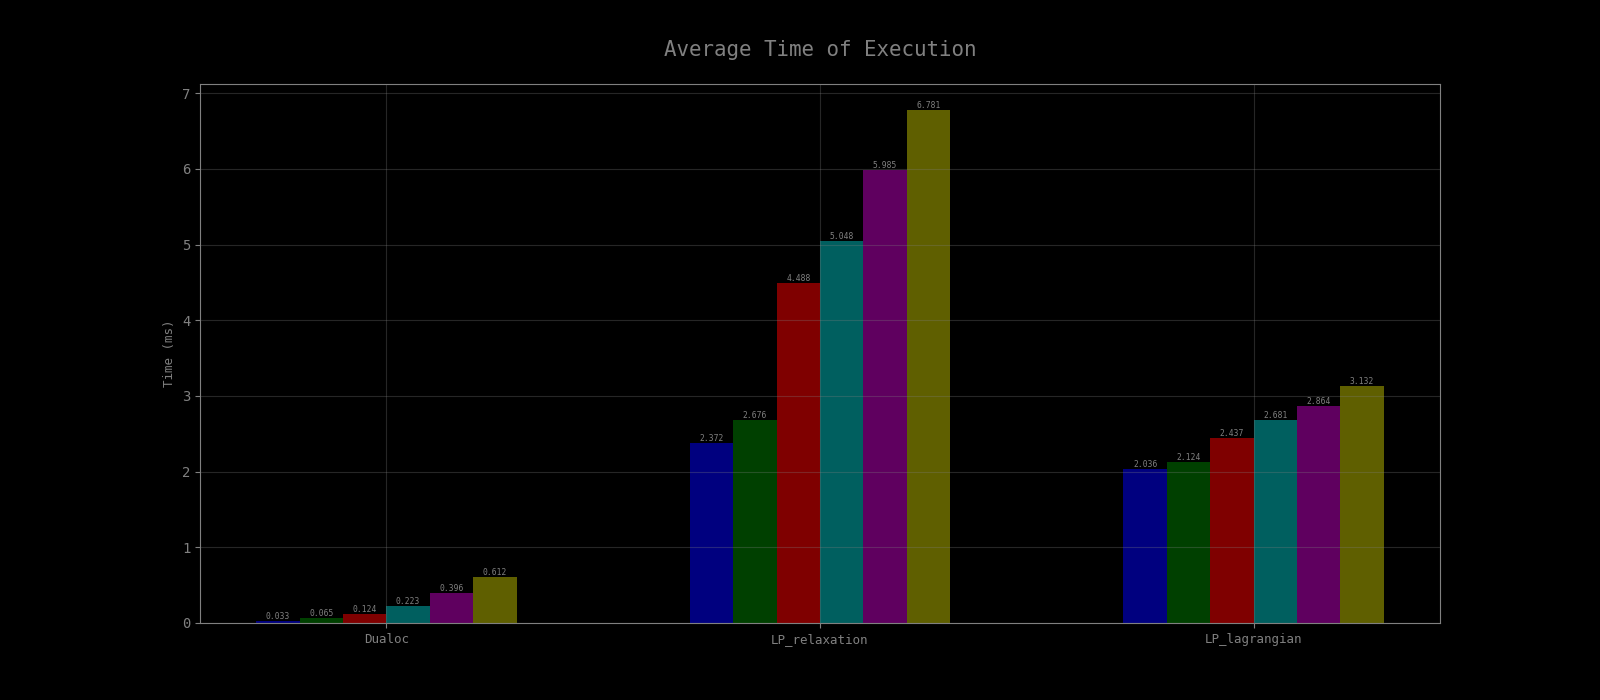
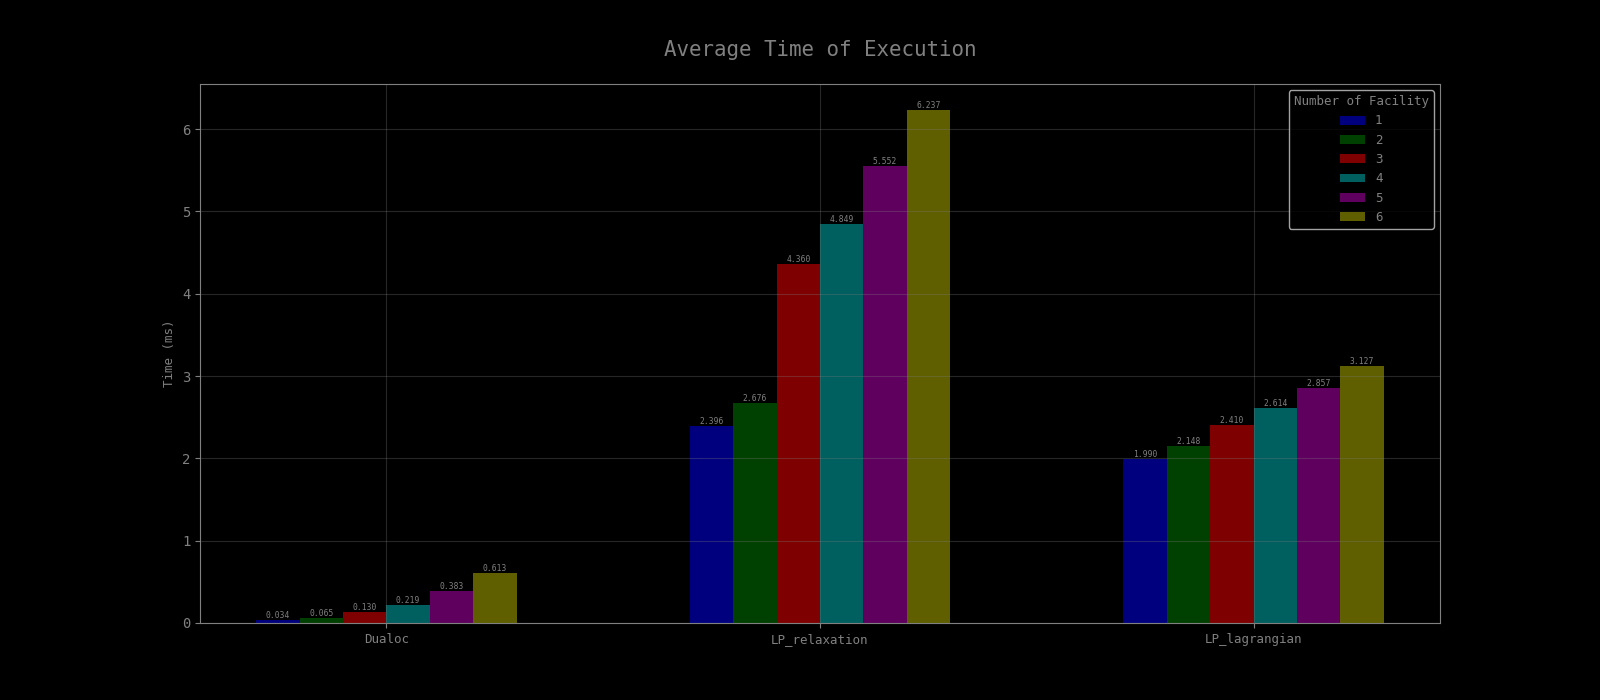
subgradient algo completed

diff --git a/dualoc/performance/chart.py b/dualoc/performance/chart.py
@@ -2,6 +2,8 @@ import numpy as np
 import matplotlib.pyplot as plt
 from performance.helpers import *
 
+COLOR = ['b', 'g', 'r', 'c', 'm', 'y']
+
 
 class Chart:
     def __init__(self):
@@ -13,82 +15,89 @@ class Chart:
                         'font.family': 'monospace', 'figure.facecolor': 'black',
                         'figure.edgecolor': 'black', 'xtick.color': 'grey',
                         'ytick.color': 'grey'}
+        self.ind = np.arange(3)  # the x locations for the groups
+        self.width = 0.10       # the width of the bars
 
-
-    def autolabel(self, rects):
+    def autolabel(self, rects, ax):
         for rect in rects:
             h = rect.get_height()
-            self.ax.text(rect.get_x()+rect.get_width()/2., h, "%.3f" % h,
+            ax.text(rect.get_x()+rect.get_width()/2., h, "%.3f" % h,
                     ha='center', va='bottom', rotation=0, fontsize='xx-small', color=self.color)
 
-    def error_chart(self, path): 
+    def set_chart(self, plt):
+        fig = plt.figure(figsize=(16, 7))
+        plt.grid(alpha=.3, color=self.color)
+        ax = fig.add_subplot(111)
+        ax.set_xticklabels(
+            ('Dualoc', 'LP_relaxation', 'LP_lagrangian'), fontsize=self.axes_fontsize)
+        return ax
+
+    def set_legend(self, ax, plt, rect, trial):
+        l = len(trial)
+        a = tuple((rect[i],) for i in range(0, l))
+        n = tuple((trial[i]) for i in range(0, l))
+
+        legend = ax.legend(a, n, title='Number of Facility/Customer', markerscale=0.4,
+                           fontsize=self.axes_fontsize, labelcolor=self.color)
+        plt.setp(legend.get_title(), color=self.color,
+                 fontsize=self.axes_fontsize)
+
+    def error_chart(self, path):
 
         value, trial = create_list(path, 'error')
-        
-        COLOR = ['b', 'g', 'r', 'c', 'm', 'y']
-        N = 3
-        ind = np.arange(N)  # the x locations for the groups
-        width = 0.10       # the width of the bars
         l = len(trial)
-        
-        with plt.rc_context(self.context):
 
-            fig = plt.figure(figsize=(16,7))
-            self.ax = fig.add_subplot(111)
+        plt_instance = plt
+
+        with plt_instance.rc_context(self.context):
+
+            ax = self.set_chart(plt_instance)
 
             rect = [[] for _ in range(0, l)]
-            
+
             for i in range(0, l):
-                rect[i] = self.ax.bar(ind + (i * width), value[i], width, alpha=.5, color=COLOR[i])
-                self.autolabel(rect[i])
+                rect[i] = ax.bar(
+                    self.ind + (i * self.width), value[i], self.width, alpha=.5, color=COLOR[i])
+                self.autolabel(rect[i], ax)
 
-            plt.grid(alpha=.3, color=self.color)
-            plt.title("Percentage Error w.r.t. Primal Simplex Solution", color=self.color, pad=self.text_pad, fontsize=self.title_fontsize)
-            
-            # a = tuple((rect[i],) for i in range(0, l))
-            # n = tuple((trial[i]) for i in range(0, l))
-            
-            # legend = self.ax.legend(a, n, title='Number of Facility', markerscale=0.1, fontsize=self.axes_fontsize, labelcolor=self.color)
-            # plt.setp(legend.get_title(), color=self.color, fontsize=self.axes_fontsize)
-            plt.ylabel('Percentage Error (%)', fontsize=self.axes_fontsize, color=self.color)
+            plt_instance.title("Percentage Error w.r.t. Primal Simplex Solution",
+                               color=self.color, pad=self.text_pad, fontsize=self.title_fontsize)
 
-            self.ax.set_xticks(ind+((l-1)/2)*width)
-            self.ax.set_xticklabels( ('Dualoc', 'LP_relaxation', 'LP_lagrangian'), fontsize=self.axes_fontsize)
-            plt.savefig('./performance/result/result_error.png')
-            plt.show()
+            self.set_legend(ax, plt_instance, rect, trial)
 
-    def time_chart(self, path): 
+            plt_instance.ylabel('Percentage Error (%)',
+                                fontsize=self.axes_fontsize, color=self.color)
+
+            ax.set_xticks(self.ind+((l-1)/2)*self.width)
+            plt_instance.savefig('./performance/result/result_error.png')
+            plt_instance.show()
+
+    def time_chart(self, path):
 
         value, trial = create_list(path, 'time')
-
-        COLOR = ['b', 'g', 'r', 'c', 'm', 'y']
-        N = 3
-        ind = np.arange(N)  # the x locations for the groups
-        width = 0.10       # the width of the bars
         l = len(trial)
-        
-        with plt.rc_context(self.context):
 
-            fig = plt.figure(figsize=(16,7))
-            self.ax = fig.add_subplot(111)
+        plt_instance = plt
+
+        with plt_instance.rc_context(self.context):
+
+            ax = self.set_chart(plt_instance)
 
             rect = [[] for _ in range(0, l)]
-            
+
             for i in range(0, l):
-                rect[i] = self.ax.bar(ind + (i * width), value[i], width, alpha=.5, color=COLOR[i])
-                self.autolabel(rect[i])
+                rect[i] = ax.bar(
+                    self.ind + (i * self.width), value[i], self.width, alpha=.5, color=COLOR[i])
+                self.autolabel(rect[i], ax)
 
-            plt.grid(alpha=.3, color=self.color)
-            plt.title("Average Time of Execution", color=self.color, pad=self.text_pad, fontsize=self.title_fontsize)
-            
-            # a = tuple((rect[i],) for i in range(0, l))
-            # n = tuple((trial[i]) for i in range(0, l))
-            
-            # legend = self.ax.legend(a, n, title='Number of Facility', markerscale=0.1, fontsize=self.axes_fontsize, labelcolor=self.color)
-            # plt.setp(legend.get_title(), color=self.color, fontsize=self.axes_fontsize)
-            plt.ylabel('Time (ms)', fontsize=self.axes_fontsize, color=self.color)
+            plt_instance.title("Average Time of Execution", color=self.color,
+                               pad=self.text_pad, fontsize=self.title_fontsize)
 
-            self.ax.set_xticks(ind+((l-1)/2)*width)
-            self.ax.set_xticklabels( ('Dualoc', 'LP_relaxation', 'LP_lagrangian'), fontsize=self.axes_fontsize)
-            plt.savefig('./performance/result/result_time.png')
-            plt.show()
+            self.set_legend(ax, plt_instance, rect, trial)
+
+            plt_instance.ylabel('Time (ms)', fontsize=self.axes_fontsize,
+                                color=self.color)
+
+            ax.set_xticks(self.ind+((l-1)/2)*self.width)
+            plt_instance.savefig('./performance/result/result_time.png')
+            plt_instance.show()

diff --git a/dualoc/guroby/guroby.py b/dualoc/guroby/guroby.py
@@ -1,5 +1,6 @@
 from itertools import product
 from guroby.helpers import *
+from guroby.subgradient import *
 import guroby.constants as const
 import gurobipy as gp
 from gurobipy import GRB
@@ -46,7 +47,17 @@ class Guroby:
         self.m.setObjective(obj_func, GRB.MINIMIZE)
         # self.m.write('f.lp')
         self.m.optimize()
-        return self.m.PoolObjVal
+
+        nSolutions = self.m.SolCount
+        #print(nSolutions)
+        #for e in range(nSolutions):
+        self.m.setParam(GRB.Param.SolutionNumber, nSolutions - 1)
+        print("############")
+        print(self.m.PoolObjVal)
+        print(self.m.objVal)
+        print("############")
+
+        return self.m.objVal
 
     def simplex(self):
         self.m.addConstrs((self.assign[(c, f)] <= self.select[f]
@@ -57,14 +68,19 @@ class Guroby:
 
         return self.solve(f)
 
-    def lp_lagrangian(self, multiplier):
+    def lp_lagrangian(self, multiplier, k, lb, B):
+
+        if (k == 0):
+            return lb
+
+        #print(lb)
 
         coef_1 = []
         coef_2 = {}
         lambda_sum = 0
         for f in range(self.num_facilities):
-            for k, v in multiplier.items():
-                if k[1] == f:
+            for key, v in multiplier.items():
+                if key[1] == f:
                     lambda_sum += v
 
             coef_1.append(self.setup_cost[f] - lambda_sum)
@@ -76,8 +92,16 @@ class Guroby:
                 coef_2[(f, c)] = c_uv + lambda_uv
 
         f = self.select.prod(coef_1)+self.assign.prod(coef_2)
+        lb = self.solve(f)
 
-        return self.solve(f)
+        new_multiplier = subgradient(lb, multiplier, len(
+            self.cartesian_prod), self.num_facilities, self.num_customers, B, self.m)
+        if new_multiplier == 0:
+            return lb
+
+        k -= 1
+
+        return self.lp_lagrangian(new_multiplier, k, lb, B)
 
     def lp_relaxation(self):
         self.m.addConstrs((self.assign[(c, f)] <= self.select[f]

diff --git a/dualoc/guroby/subgradient.py b/dualoc/guroby/subgradient.py
@@ -1,0 +1,49 @@
+from guroby.helpers import *
+import numpy as np
+from math import sqrt
+
+
+def subgradient(lb, multiplier, num_cartesian_prod, num_facilities, num_customers, B, model):
+
+    # STEP 2
+    l = num_facilities + num_cartesian_prod
+    x = filterDigit(l, model)
+
+    # STEP 3
+    A = []
+    row = [0] * l
+    for i in range(num_facilities):
+        for j in range(num_facilities, num_cartesian_prod-1):
+            row[i] = 1
+            row[j + 2*i] = -1
+            A.append(row)
+            row = [0] * l
+
+    # calculate s(h)
+    A = np.array(A)
+    x = np.array(x)
+    # s(h) := b−Ax(h)
+    s = A.dot(-x)
+    if s == row:
+        return 0
+
+    # STEP 4
+    s_2 = np.power(s, 2)
+
+    # B−L(λ^(h−1))
+    O = (B - lb)/np.sum(s_2)
+
+    # STEP 5
+    c = sqrt(np.sum(s_2))
+
+    # convert s in dictionary
+    s_dictionary = conv2dict(num_facilities, num_customers, s)
+
+    for key, _ in s_dictionary.items():
+        prev = s_dictionary[key]
+        s_dictionary[key] = prev * (O/c)
+
+    new_multiplier = {key: multiplier[key] + s_dictionary.get(key, 0)
+                      for key in multiplier.keys()}
+
+    return new_multiplier

diff --git a/dualoc/guroby/helpers.py b/dualoc/guroby/helpers.py
@@ -1,6 +1,35 @@
 import random
+import re
 from math import sqrt
 import guroby.constants as const
+
+
+def conv2dict(fac, cust, s):
+
+    d = {}
+    for i in range(fac):
+        for j in range(cust):
+            key = (j, i)
+            value = s[2*i+j]
+            d[key] = value
+
+    return d
+
+
+def filterDigit(len, model):
+    digitList = []
+    pattern_one = re.compile(r' \d.\d')
+    pattern_two = re.compile(r'-\d.\d')
+    for i in range(len):
+
+        s = str(model.getVars()[i])
+        mo = pattern_one.search(s)
+        if mo == None:
+            mo = pattern_two.search(s)
+
+        digitList.append(int(mo.group()[1]))
+
+    return digitList
 
 
 def populate_one(element):

diff --git a/dualoc/run_test.py b/dualoc/run_test.py
@@ -1,5 +1,6 @@
 import performance.test as t
 import performance.chart as c
+import os
 
 TRIAL = 10
 NODE = 7
@@ -9,6 +10,12 @@ PATH = './performance/result/result.csv'
 
 
 def run():
+
+    os.system("clear")
+    print("*********************************************")
+    print("*****       Dualoc Implementation       *****")
+    print("*****          [Start of Test]          *****")
+    print("*********************************************")
 
     """
     csv = t.CSV(PATH)
@@ -24,7 +31,7 @@ def run():
 
     """
     chart = c.Chart()
-    #chart.error_chart(PATH)
+    chart.error_chart(PATH)
     chart.time_chart(PATH)
 
 

diff --git a/dualoc/performance/helpers.py b/dualoc/performance/helpers.py
@@ -14,11 +14,6 @@ def create_list(path, attribute):
     for t in facility:
         for _, row in df.iterrows():
             if row['#facility'] == t:
-                """
-                s = str(row[attribute])
-                s.replace(".",",")
-                value[index].append(s)
-                """
                 value[index].append(row[attribute])
         index += 1
 

diff --git a/dualoc/run.py b/dualoc/run.py
@@ -26,7 +26,11 @@ def lagrangian(c, f):
     print("\nLagrangian Relaxation solution: ")
     d = create_multiplier(f, c)
     g = guro.Guroby(c, f)
-    return g.lp_lagrangian(d)
+    
+    #to substitute with feasible solution
+    B = g.simplex()
+    
+    return g.lp_lagrangian(d, 100, None, B)
 
 
 def get_input(c, f):
